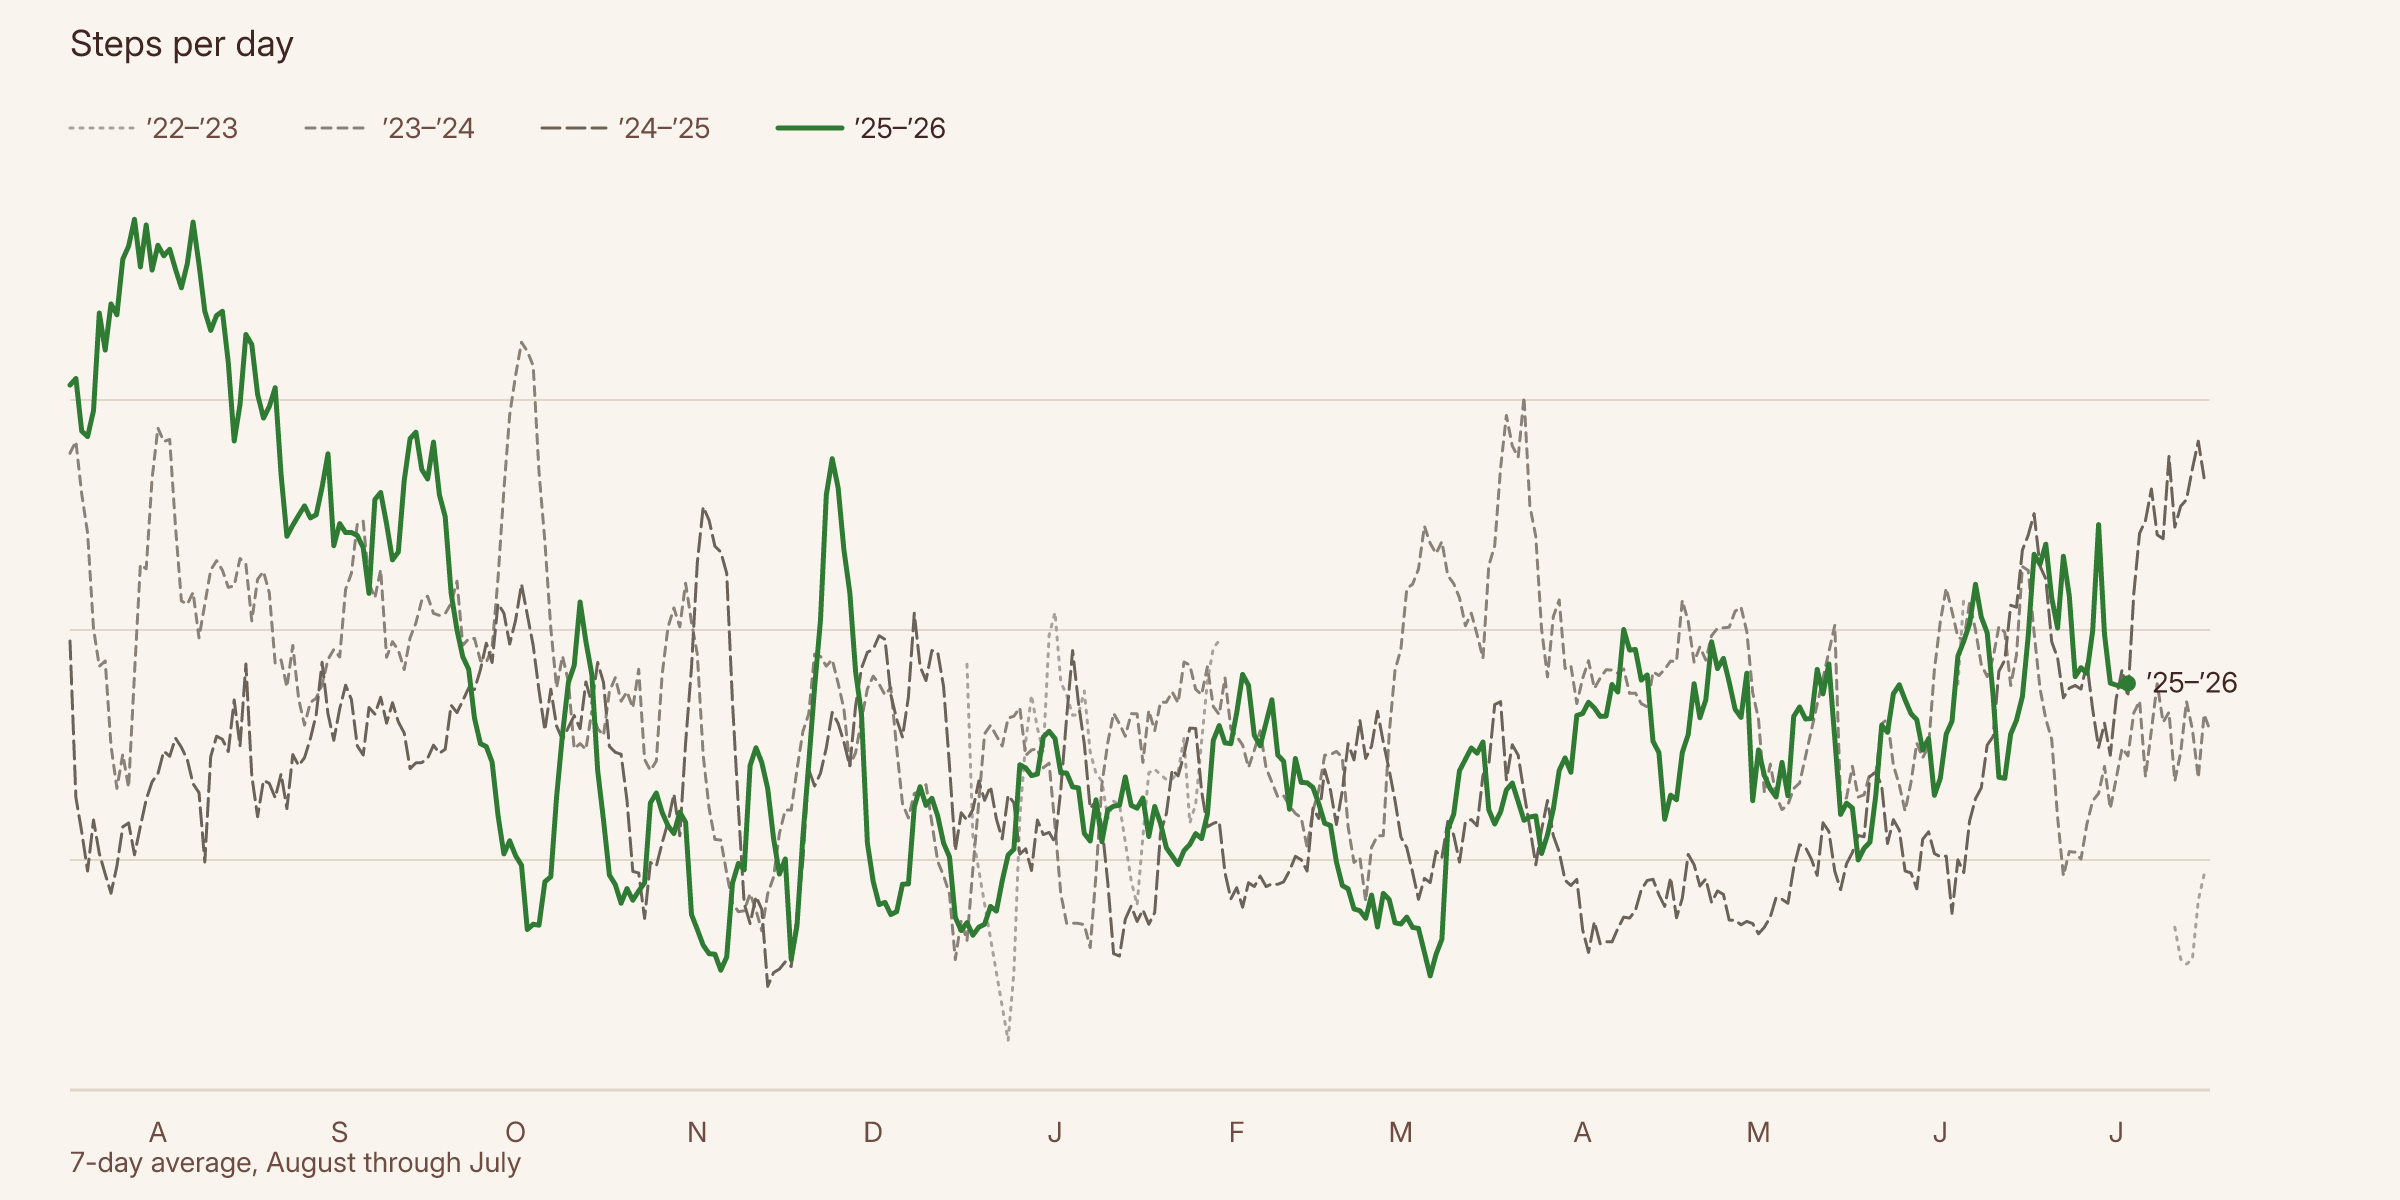
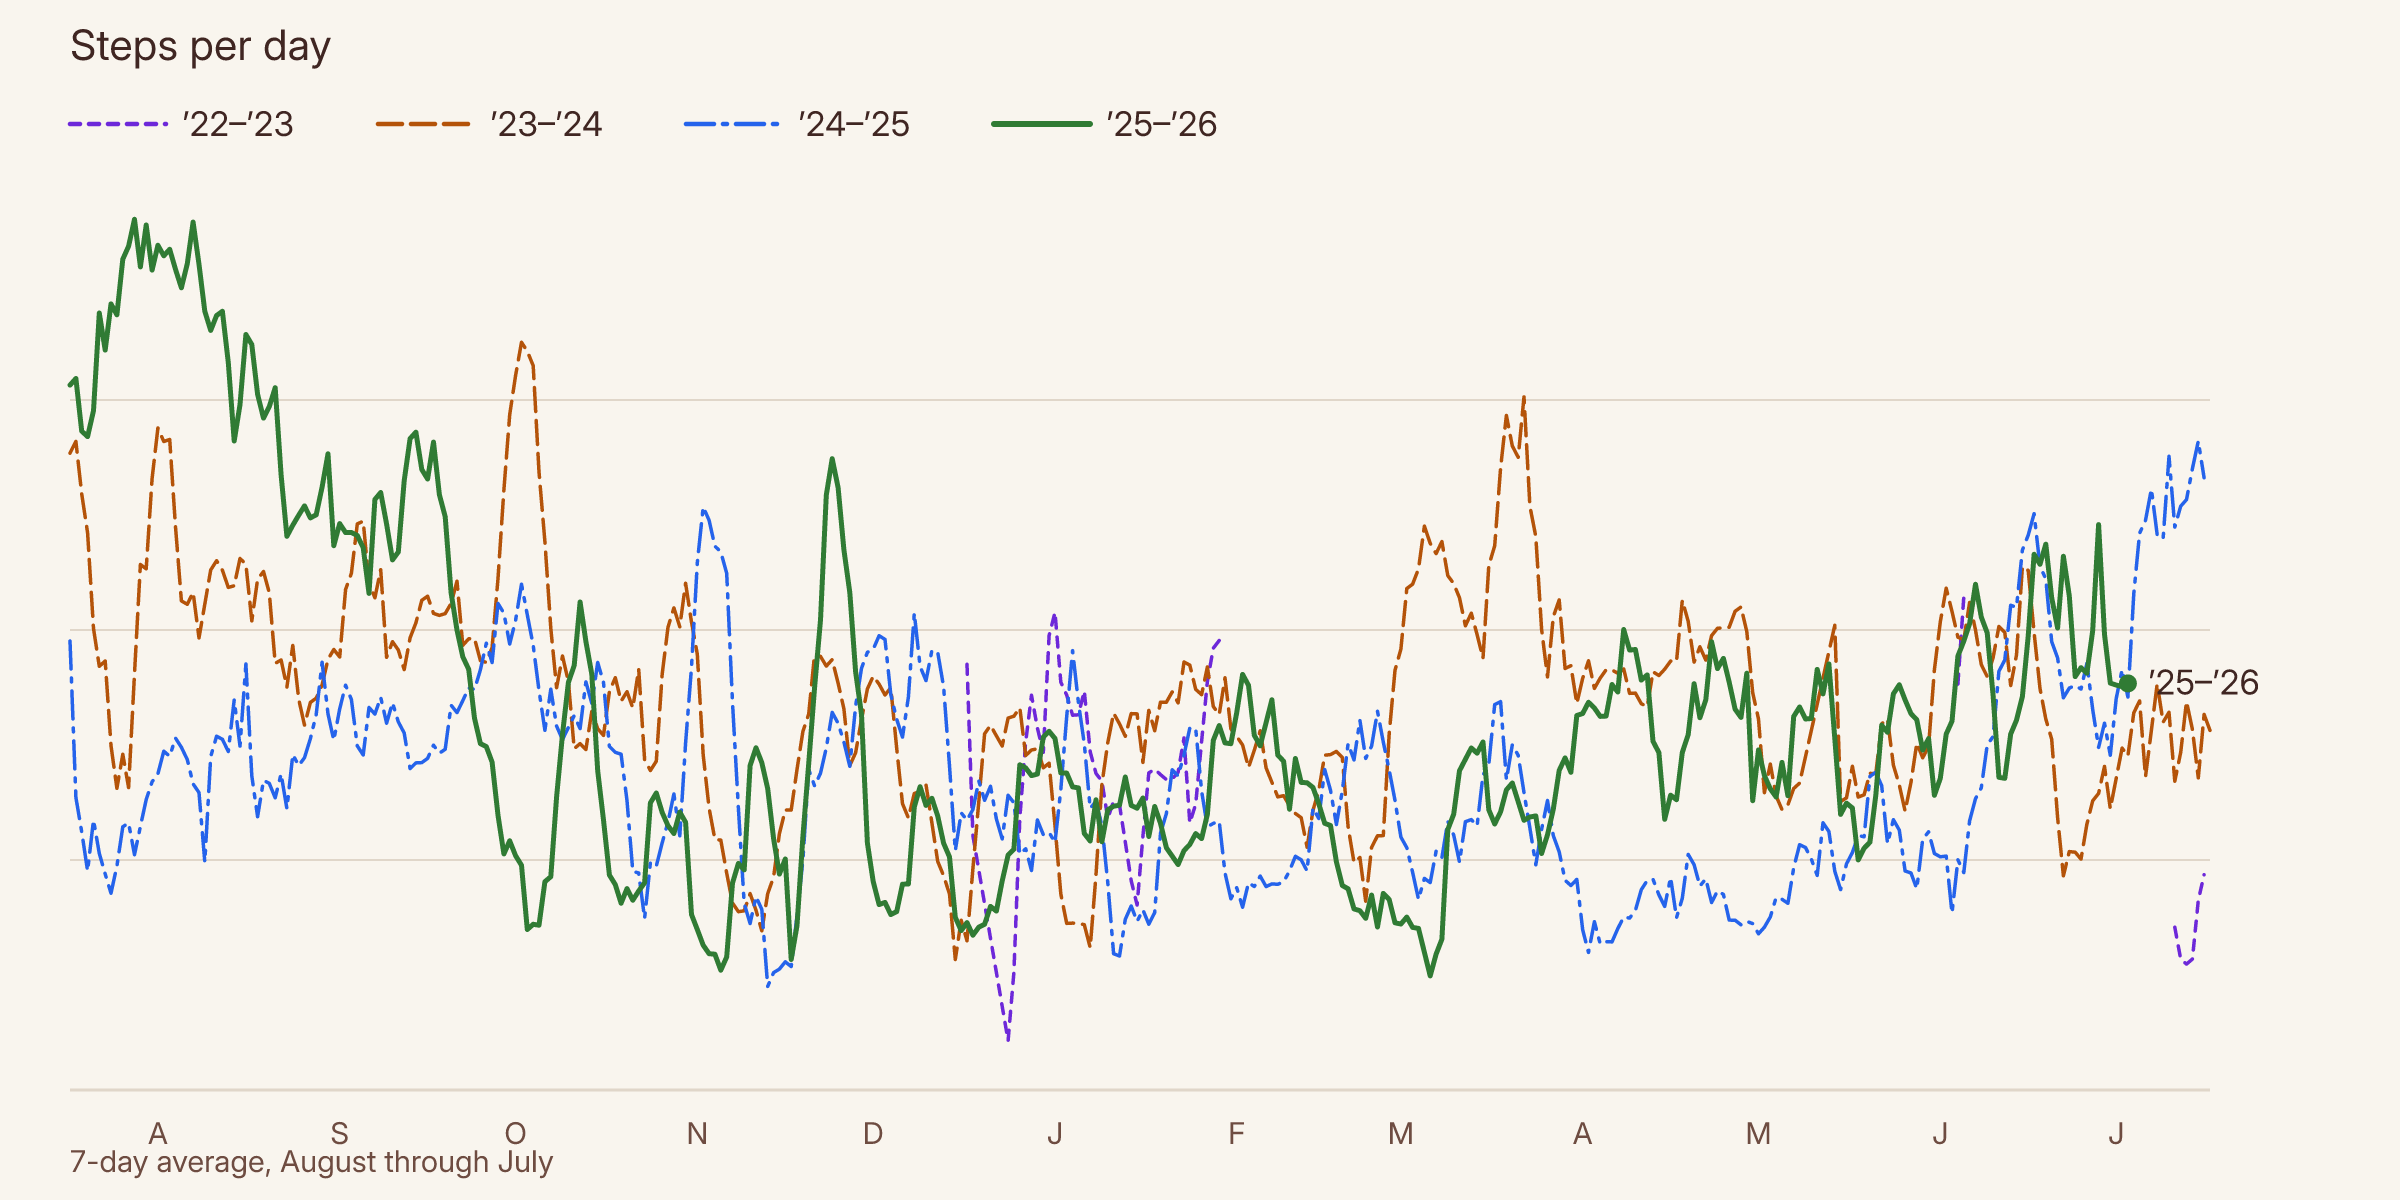
Colorize birthday chart years and enlarge legend
Per-year categorical colors (rose/violet/amber/blue with the current
year in site green), stronger dash-pattern contrast, thicker lines,
and larger legend/axis text. Palettes validated for CVD separation
and contrast against both light and dark surfaces.

Claude-Session: https://claude.ai/code/session_01DziH2ej7FbVoVMBSmL6eM3

diff --git a/scripts/birthday/generate-32-charts.ts b/scripts/birthday/generate-32-charts.ts
@@ -46,7 +46,7 @@ function dayOffset(date: string): number {
 }
 
 type Point = { x: number; y: number };
-type Series = { label: string; points: Array<Point> };
+type Series = { year: number; label: string; points: Array<Point> };
 
 function buildSeries(
   metric: "steps" | "weight",
@@ -77,6 +77,7 @@ function buildSeries(
         });
       }
       return {
+        year,
         label: `’${String(year).slice(2)}–’${String(year + 1).slice(2)}`,
         points,
       };
@@ -90,9 +91,10 @@ type Theme = {
   ink: string;
   mutedInk: string;
   grid: string;
-  green: string;
-  // oldest -> newest; the current year always gets `green`
-  grays: Array<string>;
+  // fixed year -> hue mapping so a year keeps its color in every chart;
+  // both palettes pass all six checks in the dataviz palette validator
+  // against their surface (adjacent-pair CVD ΔE, chroma, contrast, band)
+  colors: Record<number, string>;
 };
 
 let themes: Record<"light" | "dark", Theme> = {
@@ -101,22 +103,37 @@ let themes: Record<"light" | "dark", Theme> = {
     ink: "#402622",
     mutedInk: "#6e4c41",
     grid: "#e0d6c9",
-    green: "#307b34",
-    grays: ["#a8a29e", "#8a8178", "#6b6259", "#48423c"],
+    colors: {
+      2021: "#9f1239",
+      2022: "#6d28d9",
+      2023: "#b45309",
+      2024: "#2563eb",
+      2025: "#307b34",
+    },
   },
   dark: {
     surface: "#1c2b1f",
     ink: "#efeae4",
     mutedInk: "#d9d0c3",
     grid: "#3c493b",
-    green: "#4dae50",
-    grays: ["#6f6a60", "#87816f", "#a49d8d", "#cfc9bf"],
+    colors: {
+      2021: "#d8537b",
+      2022: "#9b7df0",
+      2023: "#c8800a",
+      2024: "#4f8ce8",
+      2025: "#41a246",
+    },
   },
 };
 
-// dash patterns are the identity carrier for past years (oldest -> newest),
-// so overlapping gray lines stay tellable-apart without numeric scales
-let dashes = ["3 7", "9 7", "18 7", "30 7"];
+// dash patterns back color up as an identity carrier: dotted, short dash,
+// long dash, dash-dot; the current year is the only solid line
+let dashesByYear: Record<number, string> = {
+  2021: "2 9",
+  2022: "10 9",
+  2023: "24 9",
+  2024: "28 9 4 9",
+};
 
 let WIDTH = 2400;
 let HEIGHT = 1200;
@@ -170,21 +187,16 @@ function renderChart({
   MONTH_STARTS.forEach((start, i) => {
     let mid = sx(start + 15);
     parts.push(
-      `<text x="${mid}" y="${MARGIN.top + plotH + 52}" fill="${theme.mutedInk}" font-size="28" text-anchor="middle">${MONTHS[i]}</text>`,
+      `<text x="${mid}" y="${MARGIN.top + plotH + 54}" fill="${theme.mutedInk}" font-size="30" text-anchor="middle">${MONTHS[i]}</text>`,
     );
   });
 
   // series lines, oldest first so the current year draws on top
-  let lastGray = -1;
   series.forEach((s, i) => {
     let isCurrent = i === series.length - 1;
-    let color = isCurrent
-      ? theme.green
-      : (theme.grays[Math.min(++lastGray, theme.grays.length - 1)] as string);
-    let dash = isCurrent
-      ? ""
-      : ` stroke-dasharray="${dashes[Math.min(lastGray, dashes.length - 1)]}"`;
-    let width = isCurrent ? 5 : 3;
+    let color = theme.colors[s.year] as string;
+    let dash = isCurrent ? "" : ` stroke-dasharray="${dashesByYear[s.year]}"`;
+    let width = isCurrent ? 5 : 3.5;
 
     // break the path where there's a gap of more than 14 days
     let segments: Array<Array<Point>> = [];
@@ -220,34 +232,30 @@ function renderChart({
 
   // legend row: swatch (with its dash pattern) + year label
   let legendX = MARGIN.left;
-  lastGray = -1;
   series.forEach((s, i) => {
     let isCurrent = i === series.length - 1;
-    let color = isCurrent
-      ? theme.green
-      : (theme.grays[Math.min(++lastGray, theme.grays.length - 1)] as string);
-    let dash = isCurrent
-      ? ""
-      : ` stroke-dasharray="${dashes[Math.min(lastGray, dashes.length - 1)]}"`;
+    let color = theme.colors[s.year] as string;
+    let dash = isCurrent ? "" : ` stroke-dasharray="${dashesByYear[s.year]}"`;
     parts.push(
-      `<line x1="${legendX}" y1="${MARGIN.top - 42}" x2="${legendX + 64}" y2="${MARGIN.top - 42}" stroke="${color}" stroke-width="${isCurrent ? 5 : 3}"${dash} stroke-linecap="round"/>`,
-      `<text x="${legendX + 76}" y="${MARGIN.top - 32}" fill="${isCurrent ? theme.ink : theme.mutedInk}" font-size="28"${isCurrent ? ' font-weight="bold"' : ""}>${s.label}</text>`,
+      `<line x1="${legendX}" y1="${MARGIN.top - 46}" x2="${legendX + 96}" y2="${MARGIN.top - 46}" stroke="${color}" stroke-width="${isCurrent ? 6 : 4.5}"${dash} stroke-linecap="round"/>`,
+      `<text x="${legendX + 112}" y="${MARGIN.top - 34}" fill="${theme.ink}" font-size="34"${isCurrent ? ' font-weight="bold"' : ""}>${s.label}</text>`,
     );
-    legendX += 76 + s.label.length * 16 + 48;
+    legendX += 112 + s.label.length * 20 + 56;
   });
 
   // direct label at the end of the current year's line
   let current = series[series.length - 1] as Series;
   let lastPoint = current.points[current.points.length - 1] as Point;
+  let currentColor = theme.colors[current.year] as string;
   parts.push(
-    `<circle cx="${sx(lastPoint.x)}" cy="${sy(lastPoint.y)}" r="8" fill="${theme.green}"/>`,
-    `<text x="${sx(lastPoint.x) + 18}" y="${sy(lastPoint.y) + 9}" fill="${theme.ink}" font-size="28" font-weight="bold">${current.label}</text>`,
+    `<circle cx="${sx(lastPoint.x)}" cy="${sy(lastPoint.y)}" r="9" fill="${currentColor}"/>`,
+    `<text x="${sx(lastPoint.x) + 20}" y="${sy(lastPoint.y) + 11}" fill="${theme.ink}" font-size="34" font-weight="bold">${current.label}</text>`,
   );
 
   // axis title
   parts.push(
-    `<text x="${MARGIN.left}" y="${HEIGHT - 28}" fill="${theme.mutedInk}" font-size="28">${yLabel}</text>`,
-    `<text x="${MARGIN.left}" y="56" fill="${theme.ink}" font-size="36" font-weight="bold">${title}</text>`,
+    `<text x="${MARGIN.left}" y="${HEIGHT - 28}" fill="${theme.mutedInk}" font-size="30">${yLabel}</text>`,
+    `<text x="${MARGIN.left}" y="60" fill="${theme.ink}" font-size="42" font-weight="bold">${title}</text>`,
   );
 
   return `<svg xmlns="http://www.w3.org/2000/svg" width="${WIDTH}" height="${HEIGHT}" font-family="Inter">${parts.join("\n")}</svg>`;
